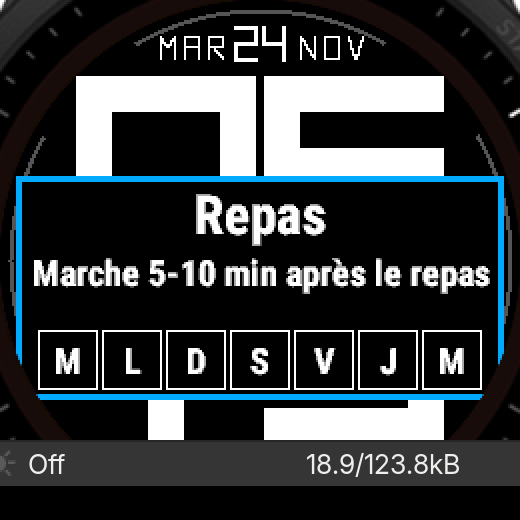
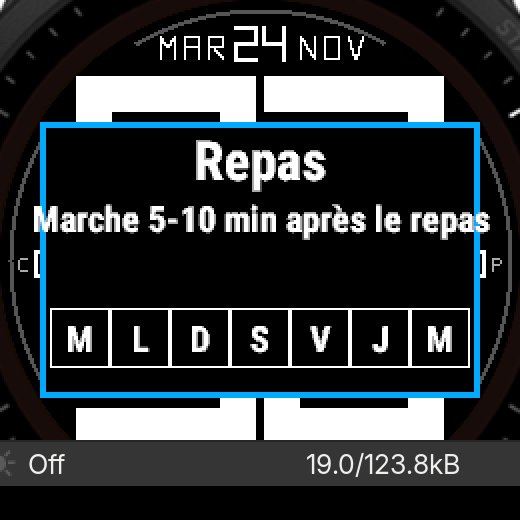
feat(watchface): diagnostic 2 colonnes, test au bouton et rectangle centré
App compagnon : vue diagnostic en 2 colonnes avec 15 tests réels (check vert / croix rouge), KEY_ENTER relance les requetes puis affiche un panneau de test. Cadran : bouton haut droit affiche un popup TEST de 10 s quand aucun rappel n'est actif. Rectangle 220x138 centre a (20,61), carres 30 px contigus. Captures cadran et app regenerees et relues.

Changed region(s): [[0.0308, 0.2154, 0.9846, 0.8615], [0.6154, 0.8615, 0.6769, 0.9231]]

diff --git a/docs/screens/README.md b/docs/screens/README.md
@@ -5,12 +5,13 @@ test forçant le créneau (le champ « Time Simulation » n'entre pas 17:30 de
 façon fiable). Deux recadrages par variante :
 
 - `*-watch.png` — cadran complet, 520 × 520 px ;
-- `*-popup.png` — rectangle seul, 492 × 228 px (244 × 112 px CIQ × 2 + marge).
+- `*-popup.png` — rectangle seul, 444 × 280 px (220 × 138 px CIQ × 2 + marge).
 
-Rendu final : fond noir, titre `FONT_SMALL` et message `FONT_SYSTEM_XTINY` en
-blanc centrés, bordure pleine de 3 px colorée par catégorie, wrap à 30
-caractères (deux lignes maximum), barre de 7 carrés de 30 px portant les lettres
-`LMMJVSD`. Plein = couleur de bordure et lettre noire ; vide = contour blanc et
+Rendu final : rectangle 220 × 138 centré à (20,61) — ses quatre coins tombent
+sur le cercle d'affichage — fond noir, titre `FONT_SMALL` et message
+`FONT_SYSTEM_XTINY` en blanc centrés, bordure pleine de 3 px colorée par
+catégorie, wrap à 30 caractères (deux lignes maximum), barre de 7 carrés de
+30 px contigus portant les lettres `LMMJVSD`. Plein = couleur de bordure et lettre noire ; vide = contour blanc et
 lettre blanche. Chaque image a été relue : accents `é è °`, aucune coupure de
 mot, aucun chevauchement. Le contexte n'est plus dessiné (il chevauchait les
 carrés).
@@ -44,6 +45,21 @@ séance est un choix de design.
 Les lettres `LMMJVSD` sont calculées depuis `day_of_week` en remontant de 0 à 6
 jours (bit 0 = aujourd'hui). Le harnais appelle les vrais helpers de sélection
 `nsdrContext(hour)` et `nsdrMessage(hour)`.
+
+## App compagnon — diagnostic et test
+
+- `app-diagnostic-watch.png` — vue d'ouverture : 15 métriques en deux colonnes,
+  ✔ vert quand l'accès est validé, ✘ rouge sinon (`Réveil` et `Météo` sont rouges
+  dans le simulateur, faute de profil et de téléphone synchronisé).
+- `app-test-panel-watch.png` — panneau affiché immédiatement après un appui sur
+  le bouton haut droit : la vue relance toutes les requêtes puis montre une
+  réplique du popup ( lettres `LMMJVSD`, 3 carrés remplis ).
+
+Ces deux vues sont capturées dans le simulateur avec le vrai `.prg` de l'app ;
+le panneau de test est forcé au démarrage dans une copie non versionnée pour
+pouvoir le photographier sans appui physique. Le bouton lui-même est câblé dans
+`getInitialView()` → `DiagDelegate.onPress()` ; l'appui réel n'est pas vérifiable
+en simulateur (`notMeasured`).
 
 ## Méthode et limites
 

diff --git a/README.md b/README.md
@@ -137,7 +137,8 @@ Mesures et arbitrages : `docs/messages-v2.md`, `docs/rag-messages.md`,
   confirmés sur `fr955` (`accent-test.png`).
 - **Hiérarchie** (U03/U33) : titre `FONT_SMALL`, message `FONT_SYSTEM_XTINY`,
   contexte affiché seulement si le message tient sur une ligne. Échelle fermée.
-- **Rectangle** (U79) : 244×112 à (8,88), **fond noir et texte blanc**. Bordure
+- **Rectangle** (U79) : 220×138 centré à (20,61), **fond noir et texte blanc**.
+  Ses quatre coins tombent sur le cercle d'affichage (rayon 130). Bordure
   pleine de 3 px colorée par catégorie (U19/U41) : orange = lumière,
   bleu = marche/pas, violet = stimulants/soleil/NSDR/écrans/calme.
 - **Centrage** : titre, message et barre centrés horizontalement et
@@ -149,9 +150,8 @@ Mesures et arbitrages : `docs/messages-v2.md`, `docs/rag-messages.md`,
 - **Durée** (U62) : 25 s, vérifiée dans `onPartialUpdate`.
 - **Wrap** (U73) : `wrapText()` démarre avec un tableau vide. Une entrée `""`
   initiale masquait la première ligne et tronquait tous les messages ; la
-  la découpe est à 36 caractères avec `FONT_SYSTEM_XTINY` dans 238 px utiles,
-  ce qui fait tenir les phrases sur une seule ligne. Défauts corrigés après
-  relecture des captures.
+  la découpe est à 30 caractères avec `FONT_SYSTEM_XTINY` dans 214 px utiles.
+  Défauts corrigés après relecture des captures.
 - **Habitude** : barre de 7 carrés, fenêtre glissante 7 jours, un seul appui par
   jour via `WatchFaceDelegate` (bouton haut droit). Score persisté dans
   `Application.Storage`. Un second appui est ignoré.
@@ -187,8 +187,11 @@ ID dédié) qui fournit le retour haptique impossible depuis le cadran :
 - algorithmes raffinés par les données réservées aux watch-apps :
   `Weather.getSunset()` pour le coucher, `SensorHistory.getStressHistory()` pour
   NSDR et Calme, `UserProfile` pour le sommeil et le coucher ;
-- aucun `WatchUi.pushView` : l'app reste haptique, les popups visuels restent
-  dans le cadran.
+- **vue diagnostic** en deux colonnes (15 métriques, ✔ vert / ✘ rouge) avec
+  test réel de chaque accès ; le bouton haut droit relance toutes les requêtes
+  puis affiche immédiatement un panneau de test répliquant le popup du cadran ;
+- le cadran a aussi son propre test : bouton haut droit quand aucun rappel
+  n'est actif → popup `Test` de 10 s (`docs/screens/app-test-panel-watch.png`).
 
 ```bash
 cd companion && ./build.sh

diff --git a/docs/messages-v2.md b/docs/messages-v2.md
@@ -5,8 +5,8 @@ Règles appliquées : U01 (1 sens), U03 (hiérarchie), U18 (vocabulaire stable),
 U19 (tokens), U41 (catégorie portée par le texte + bordure), U73 (pas de coupe
 au milieu d'un mot).
 
-Le message est dessiné en `FONT_SYSTEM_XTINY` dans un popup de 244 px, avec un
-wrap à 30 caractères : les phrases longues passent sur deux lignes, les autres
+Le message est dessiné en `FONT_SYSTEM_XTINY` dans un popup de 220 px centré à
+(20,61), avec un wrap à 30 caractères : les phrases longues passent sur deux lignes, les autres
 tiennent sur une seule. Le titre reste en `FONT_SMALL`. Les durées NSDR sont
 30 / 20 / 10 / 10 min selon le moment : le livre donne « ten- to thirty-minute
 NSDR session » et « 20 to 30 minutes if you slept poorly » ; le 10 min avant
